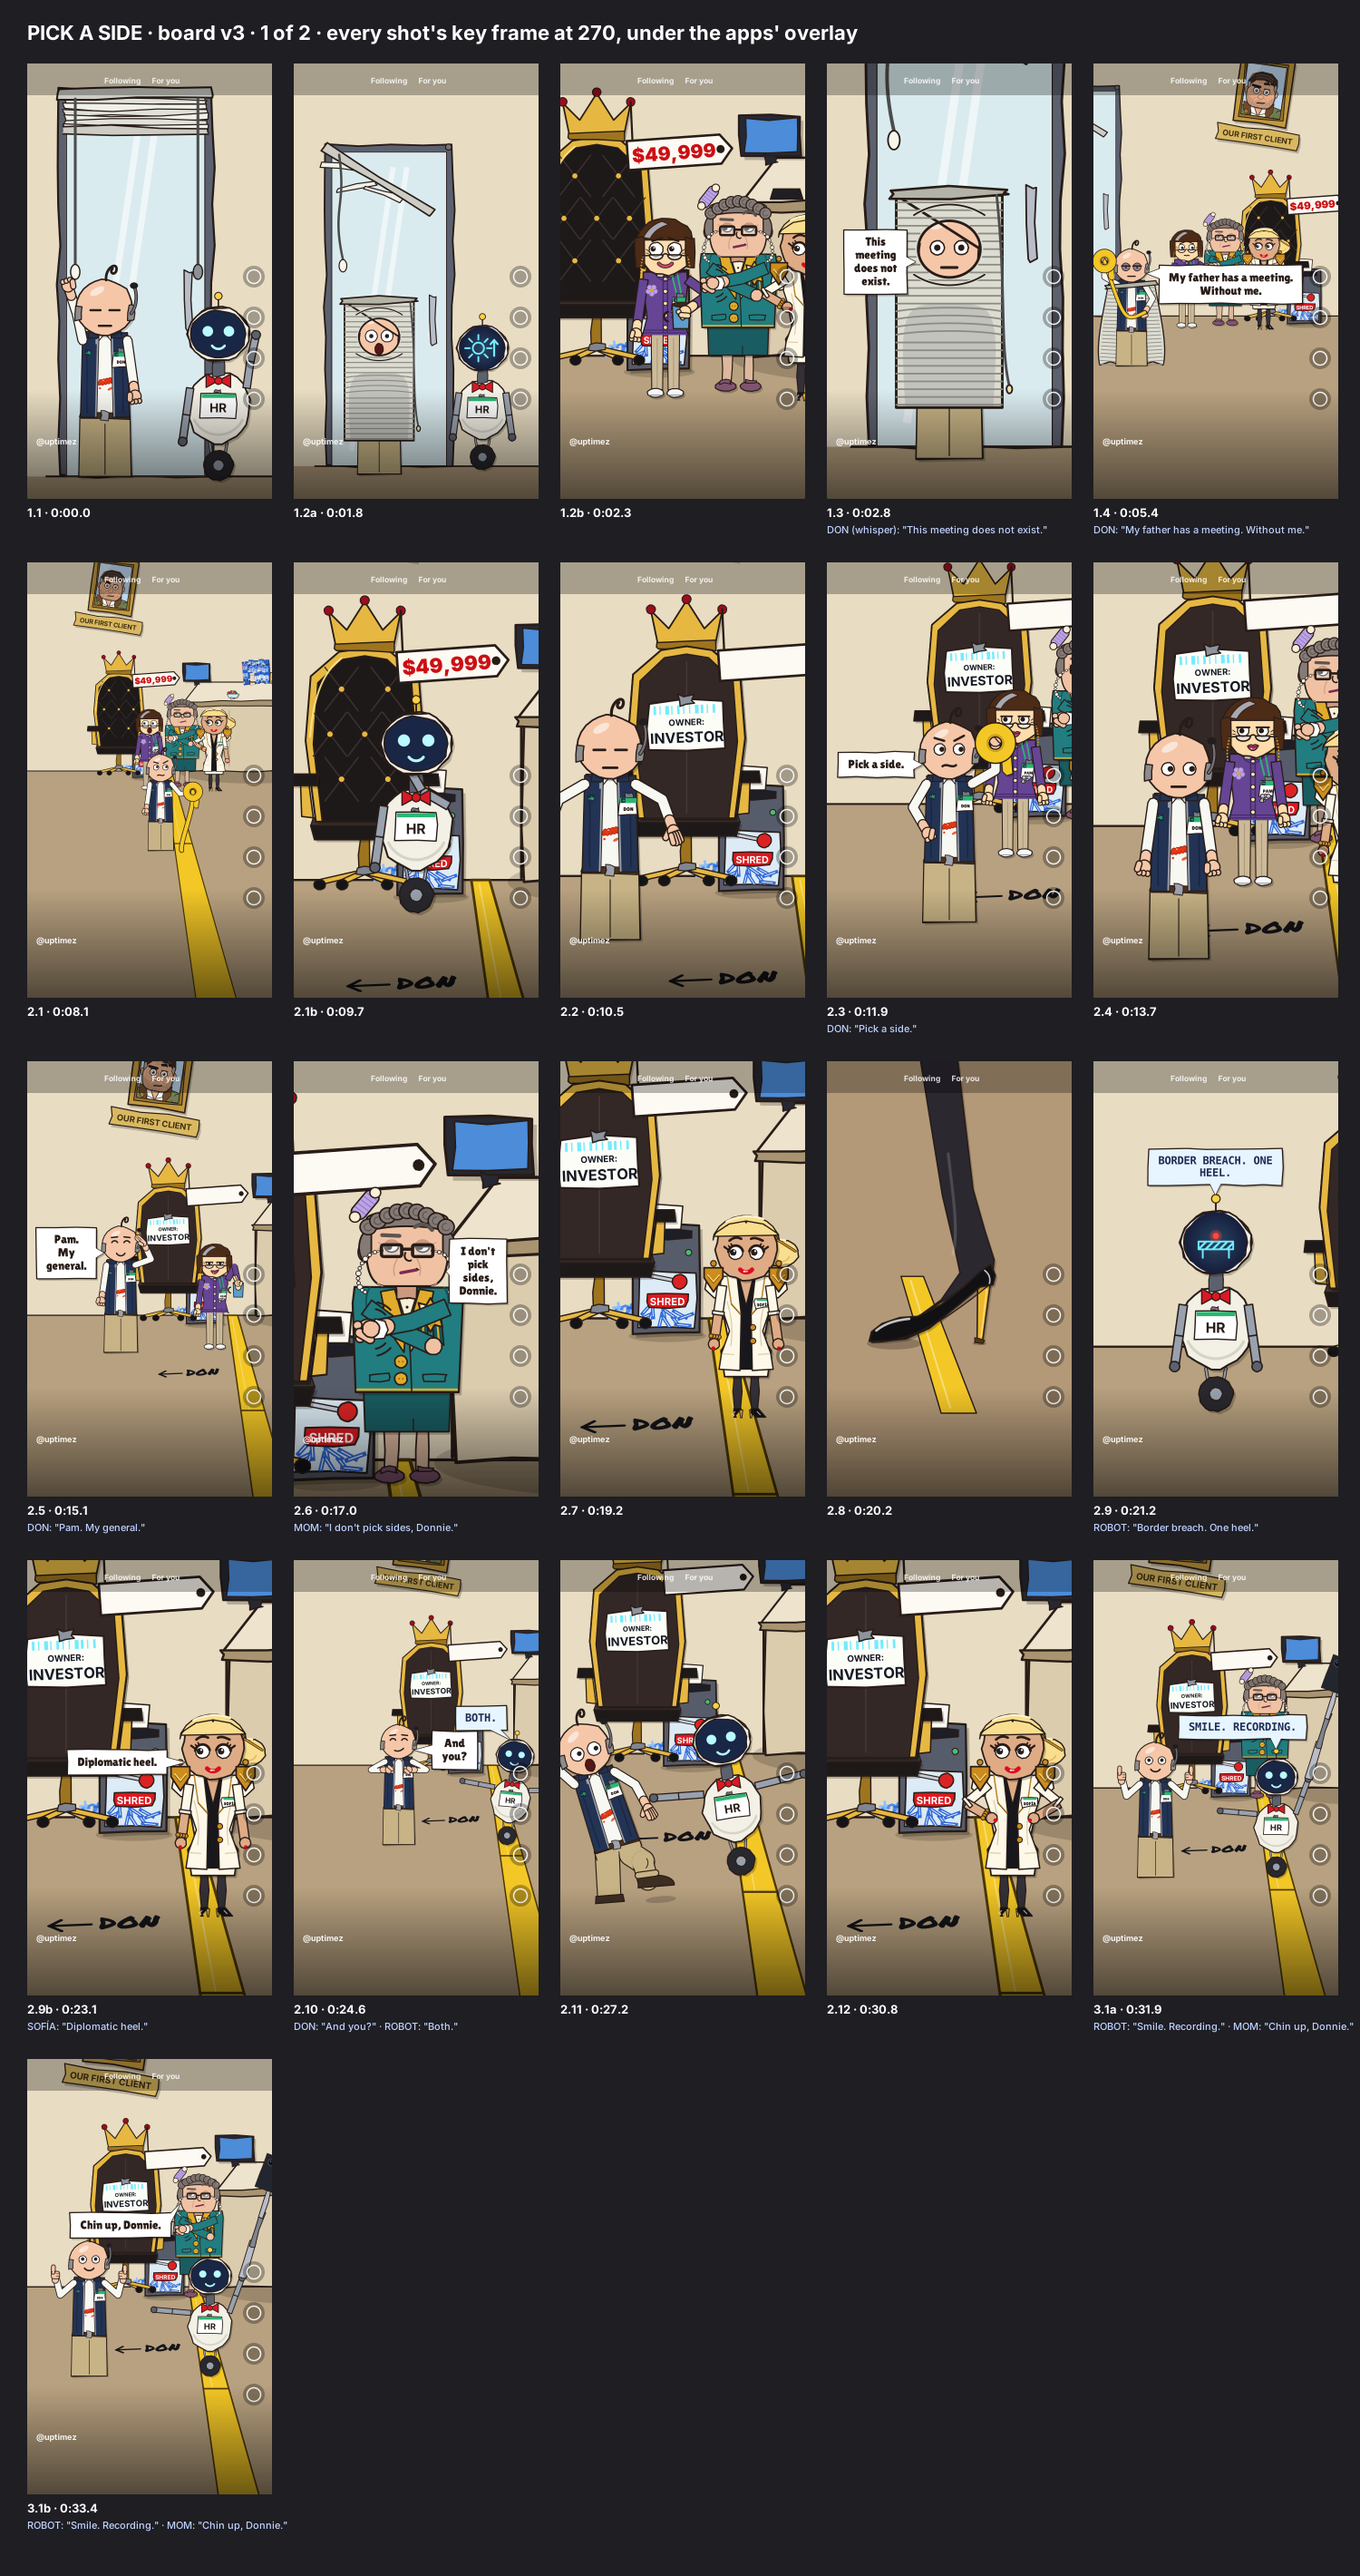
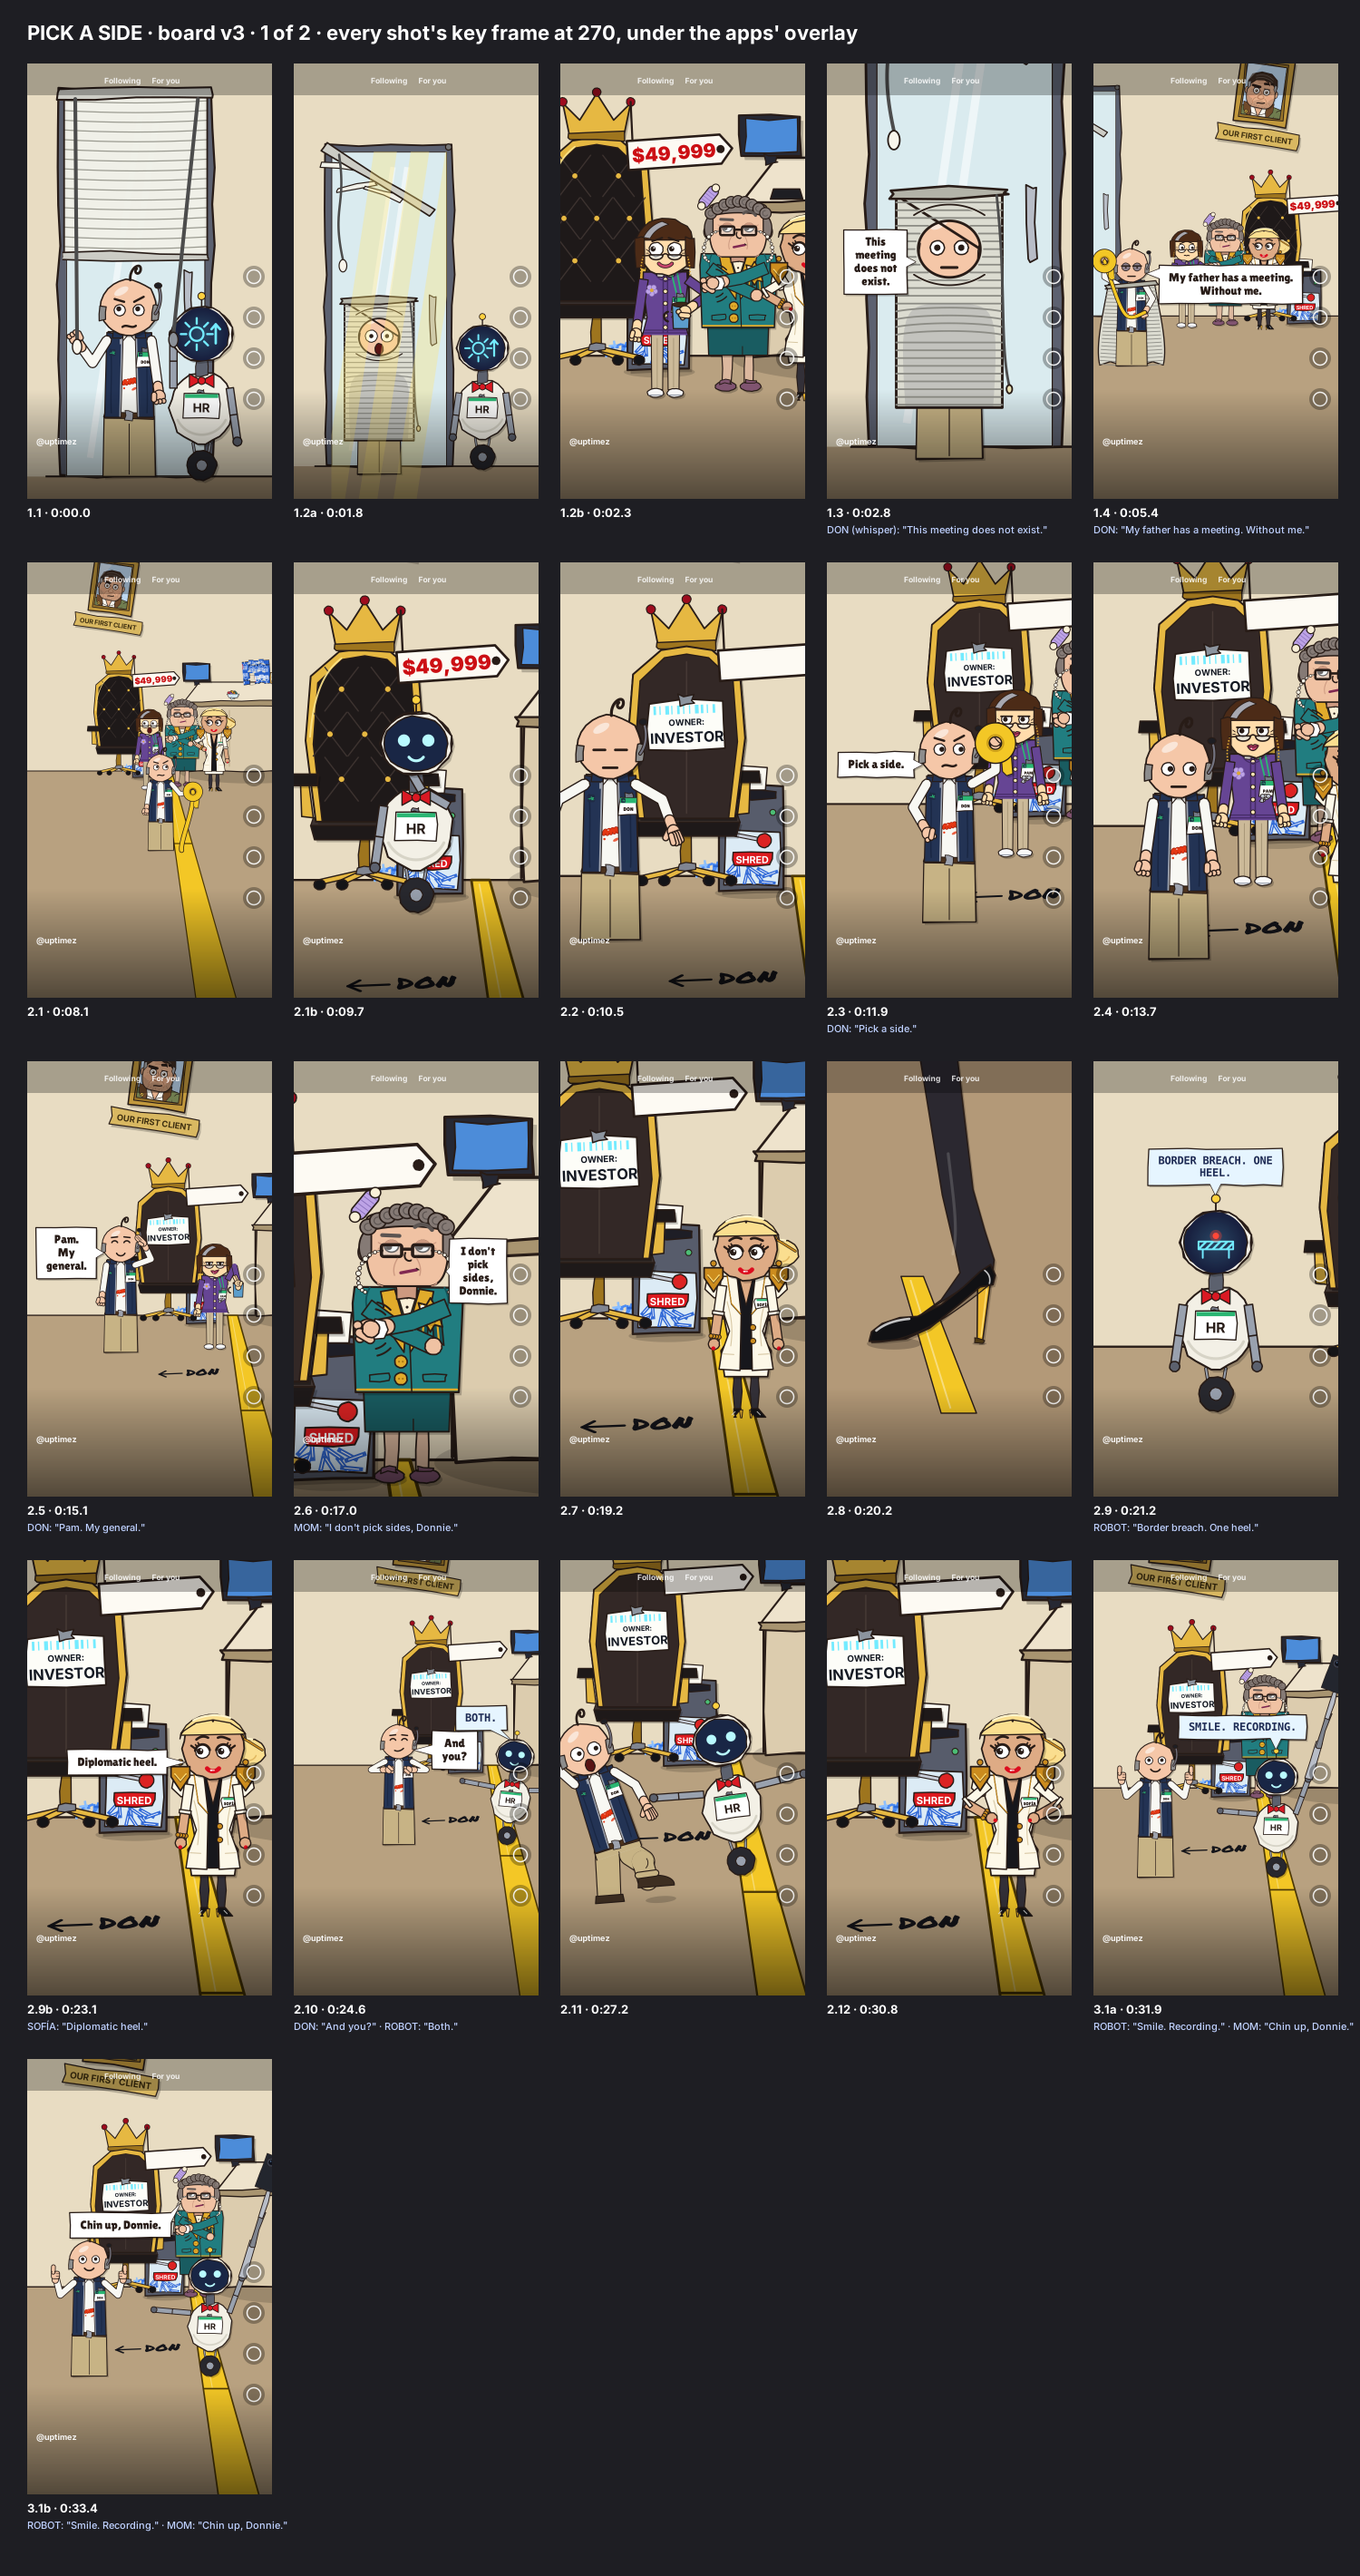
ep14 Pick a Side: door tug and daylight; cold tests rounds 3-4
- 1.1 board key frame is motion test A's tug: both hands on their cords,
  cords taut, blind half down; the robot a step left, arm up on the glass
- 1.2a: daylight bands through the bare glass onto Don (the sun icon now
  reads "more light" 3 of 3)
- all under FIX_V4; checks 38 shots, 0 faults; approved v3 sheets untouched
- tests doc: round 3 (whole board, 3 viewers, pass) and round 4 (door pair,
  two passes; the grip itself still half-reads, kept by Tomas)

Claude-Session: https://claude.ai/code/session_01ED8DLP19jkqaUDCQ7qoMw3

Changed region(s): [[0.0307, 0.031, 0.184, 0.1859], [0.2453, 0.062, 0.3373, 0.1859]]

diff --git a/uptimez/src/ps_scenes.py b/uptimez/src/ps_scenes.py
@@ -120,8 +120,47 @@ ROOM5 = dict(blind="rehung", tape=True, spun=True, phone="lit")
 ROOM3P = dict(blind="torn", tape=True, spun=True, silhouette="phone")      # v3: 3.6, the guard's phone lit at his face
 
 
+def _tug_11(k):
+    """v4 (Tomas 24 Nov, /grill-me, the third cold test: 0 of 3 saw the robot pull): the board's 1.1 is motion test A's
+    key frame: both hands on their cords, the cords taut to the hands, the blind half down, the robot hauling it back up."""
+    import acts_ob as ac
+    heads, c, n = {}, k.c, 0.45
+    top = pss.GY0 - 10 + 12
+    x, f = at("don_cord"); x += 26
+    hd = (pss.CORD_L + 2, f - 310 * SC["don"] + (150 * SC["don"]) * n)
+    to = lambda p: ((p[0] - x) / SC["don"], (p[1] - f) / SC["don"])
+    o, heads["don"] = don(k, (x, f), ac._pose(1.12, left=to(hd)), "confused", (-0.4, -0.6))
+    rx, rf = at("rob_cord")
+    o2, heads["robot"] = robot(k, (rx - 18, rf), arms=((-180, 0), (8, 0)), visor="sun")   # a step left, clear of the door
+    #                                     frame; the near arm straight up on the glass, the grip at its tip
+    for cx, hand, pull in ((pss.CORD_L, o["hands"][0], pss.PULL), (pss.CORD_R, o2["hands"][0], pss.PULL_R)):
+        hx, hy = hand
+        c.set_source_rgb(*pss.CORD); c.set_line_width(4.0); c.set_line_cap(1)
+        c.move_to(cx, top); c.line_to(hx, hy); c.stroke(); c.set_line_cap(0)
+        c.save(); c.translate(hx, hy + 6); c.scale(5, 8); c.new_path(); c.arc(0, 0, 1, 0, 6.3); c.restore()
+        c.set_source_rgb(*pull); c.fill_preserve(); c.set_source_rgb(*kit.INK); c.set_line_width(1.4); c.stroke()
+    return heads
+
+
+def light_in(k):
+    """v4 (Tomas 24 Nov: the sun icon read as "a sun", never "more light"): when the blind is down, daylight falls
+    through the bare glass onto whoever is in front of it: three warm bands, no new words."""
+    c = k.c
+    x0, y0, w, h = pss.GX0, pss.GY0, pss.GW, pss.GH
+    c.save()
+    c.rectangle(x0, y0, w, h + 60); c.clip()                 # through the glass and onto the floor in front, not the wall
+    for i, (a, b) in enumerate(((0.10, 0.30), (0.42, 0.58), (0.72, 0.92))):
+        c.new_path()
+        c.move_to(x0 + w * a + 40, y0); c.line_to(x0 + w * b + 40, y0)
+        c.line_to(x0 + w * b - 30, y0 + h + 60); c.line_to(x0 + w * a - 30, y0 + h + 60); c.close_path()
+        c.set_source_rgba(1.0, 0.90, 0.45, 0.34); c.fill()
+    c.restore()
+
+
 def cast_11(down=False, last=False):
     def f(k):
+        if FIX_V4[0] and not down:
+            return _tug_11(k)
         heads = {}
         _, heads["don"] = don(k, "don_cord", (-168, 6, 8, 0) if not down else (-150, -20, 8, 0),
                               "squint" if not down else "smug", (-0.4, -0.6))
@@ -137,6 +176,8 @@ def cast_12a(k):
     heads = {}
     o, heads["don"] = don(k, "don_door", "stand", "shock", (0, 0))
     dp.blind_over(k, o["head"], SC["don"])
+    if FIX_V4[0]:
+        light_in(k)
     _, heads["robot"] = robot(k, (pss.GX0 + 196, F + 4), visor="sun")
     return heads
 
@@ -587,6 +628,7 @@ def board_keys(sh, line):
 _CHK = [None]                                               # check_all's per-frame checks (run right after each key frame)
 DEBUG_V4, WHY = [False], [""]                                               # board key frames that show one of the shot's lines each
 IN_HAND_V4 = ("6.1",)
+ROOM_V4 = {"1.1": dict(blind="down", u=0.45 * 0.92, dim=False, cords=False)}   # 1.1: the tug's key frame (cords to hands)
 CAM_V4 = {}
 KEYS_V4 = {"5.4": [(700, 700, 0.8), None]}                  # Tomas 24 Nov: 5.4a wide (his door, DON · CEO, across the tape),
 CAMKEY = [None]                                             # 5.4b the medium (the foot over the line); the camera pushes in
@@ -631,8 +673,9 @@ def _pass(k, sh, cam):
     c.save()
     if cam:
         sbv.view(c, *cam)
-    _floor_on(c, sh["room"])
-    pss.room(k, **dict(dict(phone=None), **sh["room"]))
+    room_ = ROOM_V4.get(sh["id"], sh["room"]) if FIX_V4[0] else sh["room"]
+    _floor_on(c, room_)
+    pss.room(k, **dict(dict(phone=None), **room_))
     heads = sh["cast"](k) if sh["cast"] else {}
     c.restore()
     return heads
@@ -692,8 +735,9 @@ def covered(sh, cam, surf, texts):
     bare = cairo.ImageSurface(cairo.FORMAT_RGB24, W, H)
     cb = TextRec(bare); kb = Ctx(cb, 0); cb.set_source_rgb(*kit.WALL); cb.paint()
     cb.save(); sbv.view(cb, *cam)
-    _floor_on(cb, sh["room"])
-    pss.room(kb, **dict(dict(phone=None), **sh["room"])); cb.restore()
+    room_ = ROOM_V4.get(sh["id"], sh["room"]) if FIX_V4[0] else sh["room"]
+    _floor_on(cb, room_)
+    pss.room(kb, **dict(dict(phone=None), **room_)); cb.restore()
     surf.flush(); bare.flush()
     A = np.ndarray((H, W, 4), np.uint8, surf.get_data()).astype(int)
     B = np.ndarray((H, W, 4), np.uint8, bare.get_data()).astype(int)

diff --git a/uptimez/pick-a-side/pick-a-side-tests-v1.md b/uptimez/pick-a-side/pick-a-side-tests-v1.md
@@ -75,4 +75,56 @@ G v3: the phone is seen ("DAD") but 2 of 2 read Pam's reach as toward the throne
 - **6.1: Pam's phone small and flat under her fingers**, away from Sofía's CV; Pam's ownership is carried by 5.7 (the blue mug).
 - **1.4: the roll in Don's other hand** (frame left, the pose mirrored), so his bubble sits on his right with a short tail; the known exception is lifted (`KNOWN_V4` empty).
 
-Checks: 38 shots (41 key frames), 0 faults. Layout v3 and board v2 still rebuild md5-identical. Not yet re-tested on cold viewers.
+Checks: 38 shots (41 key frames), 0 faults. Layout v3 and board v2 still rebuild md5-identical. Re-tested below (third round).
+
+## Third round (24 Nov): the three newest fixes on 3 new viewers
+
+Same 41 frames (board v3, rebuilt md5-identical), neutral sheets at 400 px and 270 px, the generic prompt plus five direct questions (hands at the door, the foot gag, the phone, the loop, what ties the two places).
+
+| Beat | Intended | A | B | C | Verdict |
+|---|---|---|---|---|---|
+| 1 | Don and the robot tug the blinds; he wants them down, the robot up | Don pulls the cord, blind falls on him; robot only smiles | same | same | partial 3 of 3: the blind gag reads, the tug-of-war does not |
+| 2 | tape line, "pick a side", Pam crosses, Mom neutral, Sofía's heel | read | read | read | read 3 of 3 |
+| 3 | selfie, human approval, Don approves | read ("group photo") | read (guessed a selfie stick) | read | read 3 of 3 |
+| 4 | booth: "That one." "Invite her." the guard's COO? CV | read | read | read | read 3 of 3 |
+| 5 | Sofía takes the CV; the invitation phone; "Everyone's with me"; loop | read, loop read | read, loop read | read, loop read | read 3 of 3 |
+
+Pass: 4 of 5 beats for every viewer, loop read 3 of 3.
+
+The three fixes:
+- **1.4, the roll in the other hand:** nobody saw a roll at the door; all three say the other hand is a fist, and that the roll appears at #5 and #9. Harmless, but it carries nothing: the roll is not read before the tape scene.
+- **5.4a/5.4b, two key frames:** landed. 3 of 3 read Don straddling the line (#35 wide, #36 close), call it "BOTH" in action, and pick #36 as the screenshot. The 0 of 3 of the second round is now 3 of 3.
+- **6.1, the phone small and flat by Pam:** not seen. No viewer mentions a phone in Pam's hand in #40. The only phone read is the 5.7 insert (#39, "INVITATION / DAD" beside the blue mug): owner Pam by the mug A 40%, B 40%, C "Don's, 30%". Same picture as the second round (ownership carried by the mug, not by the hold), a little firmer than 1 of 3.
+
+Shared misreads that are not beats:
+- The robot's sun icon: 3 of 3 see "a sun/arrow", none reads "more light" (the tug of beat 1).
+- The teal woman (Mom): 3 of 3 call her older, family-like ("Donnie"), none says mother.
+- The two men behind the glass: 3 of 3 guess a portrait resemblance, none names Father and the Client.
+- #22 and #29, the photo and its copy with dark figures: 3 of 3 half-read it ("someone shouldn't be in it").
+- #18, who knocked Don over: C could not tell.
+
+What would undo these: if Tomas wants the tug-of-war read, the robot's arm must visibly hold the other cord (not only a raised arm); if the phone ownership must read in 6.1 itself, the phone has to be in Pam's hand and bigger, which he declined in the 6.1 pick. Neither is changed without his word.
+
+## Fourth round (24 Nov, /grill-me): the tug and the light, staging pair #1-#2 on 3 new viewers
+
+Built (all under `FIX_V4`; checks 38 shots, 0 faults; approved v3 sheets untouched): 1.1 is motion test A's key frame (both hands on their cords, the cords taut, the blind half down, `_tug_11`, `ROOM_V4`); 1.2a gets three warm daylight bands through the bare glass onto Don (`light_in`); 1.4's roll stays in the other hand.
+
+| Question | D | E | F | Verdict |
+|---|---|---|---|---|
+| Opposite wants (Don down, the robot up) | yes | yes | yes | 3 of 3 (was 0 of 3) |
+| The robot holds its cord | "I think so, not certain" | "seems to grip it" | "can't see its hand" | 1.5 of 3: the grip is the weak point |
+| The light and the icon | "let the light in" | "more light" | "brightness up" | 3 of 3 |
+| Who won | the robot | the robot | the robot | 3 of 3 |
+
+Shared misreads: the robot's hand is hidden against the door frame beside its screen (3 of 3 unsure); the two motion lines under its grip read as "tick marks near Don's hip" (E, F). The fix if wanted: the robot a step left so its arm is clear of the frame, the grip below its screen, the motion lines off.
+
+Fix (Tomas "taisom ranka"): the robot a step left (`rx - 18`), its near arm straight up on the glass, the grip at its tip, the motion lines off. Three new viewers, the same pair and questions:
+
+| Question | G | H | J | Verdict |
+|---|---|---|---|---|
+| Opposite wants | yes | yes (inferred) | yes | 3 of 3 |
+| The robot holds its cord | "a raised claw, not sure" | "a grey gripper holds it" (big only) | "the cord runs to its head; no hand" | 1.5 of 3, unchanged; 0 of 3 at phone size |
+| Light and icon | "brightness up" | "sunrise, raise the blinds" | "more sun, open up" | 3 of 3 |
+| Who won | the robot | the robot | the robot | 3 of 3 |
+
+The tick marks are gone. The grip itself is still a half-read after two fixes: at 270 px the robot's short arm and the knob merge with its screen. The beat no longer depends on it (the wants, the light and the winner read 3 of 3); in the film the pull is carried by motion test A, which read the tug in motion.
